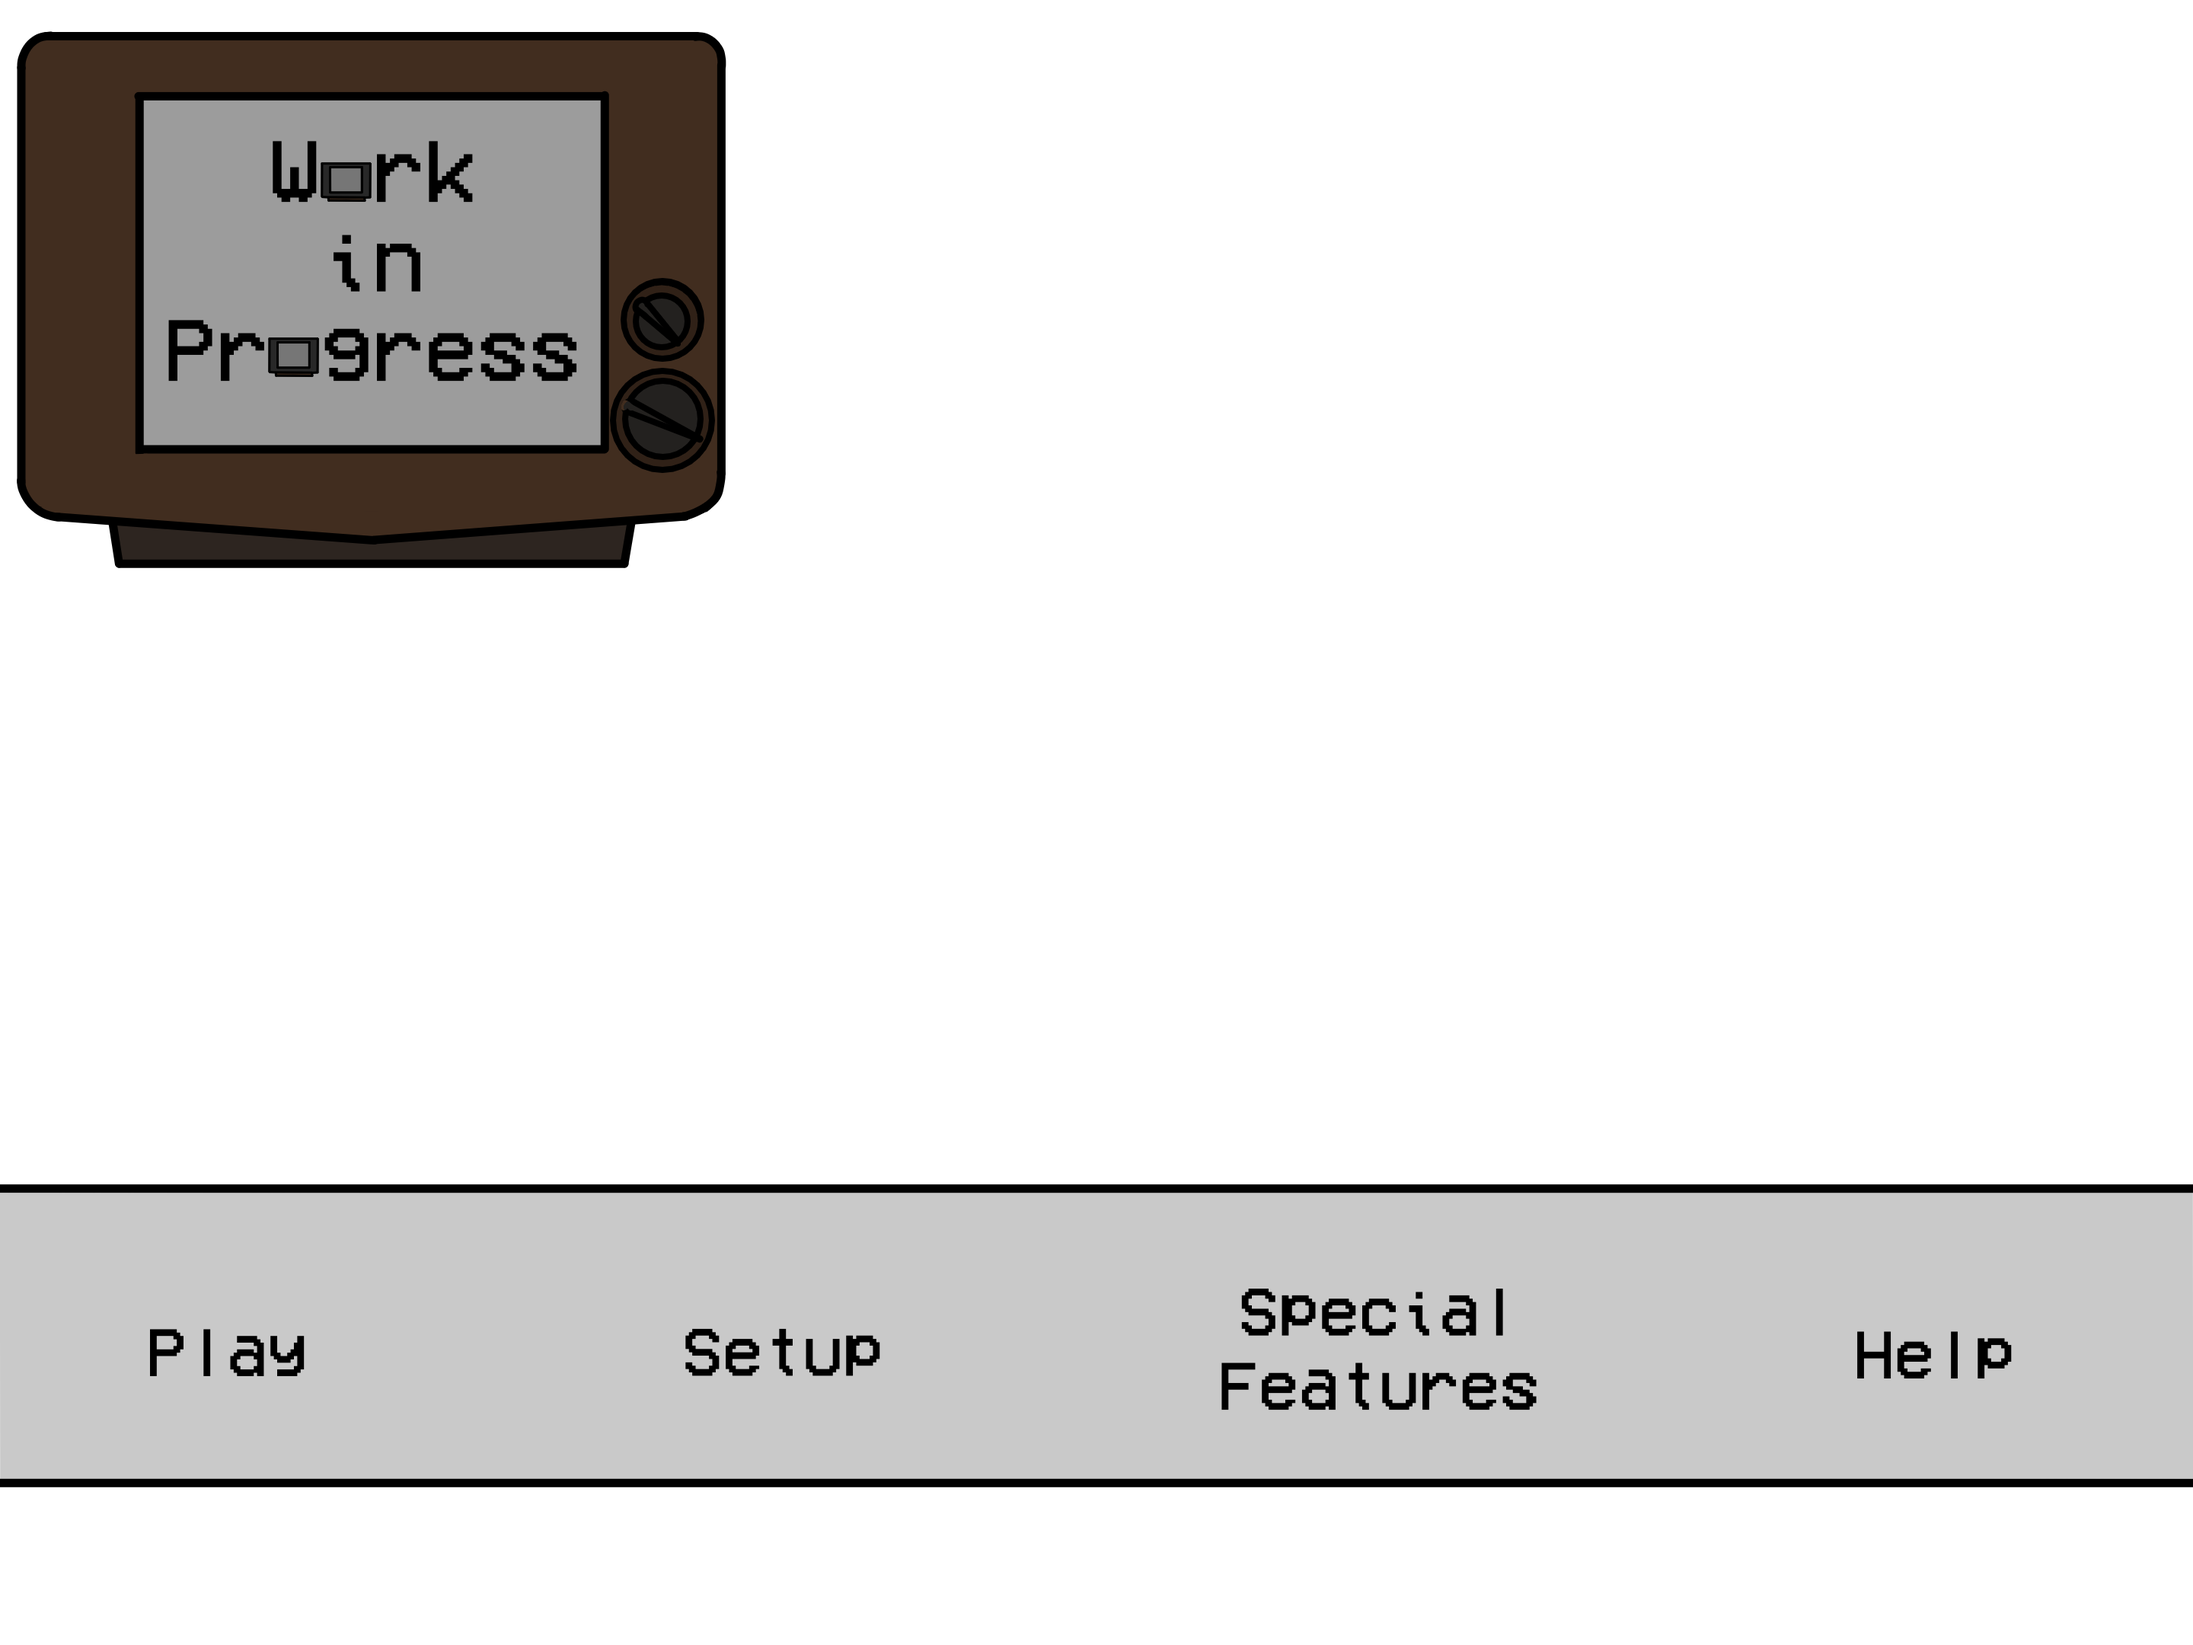
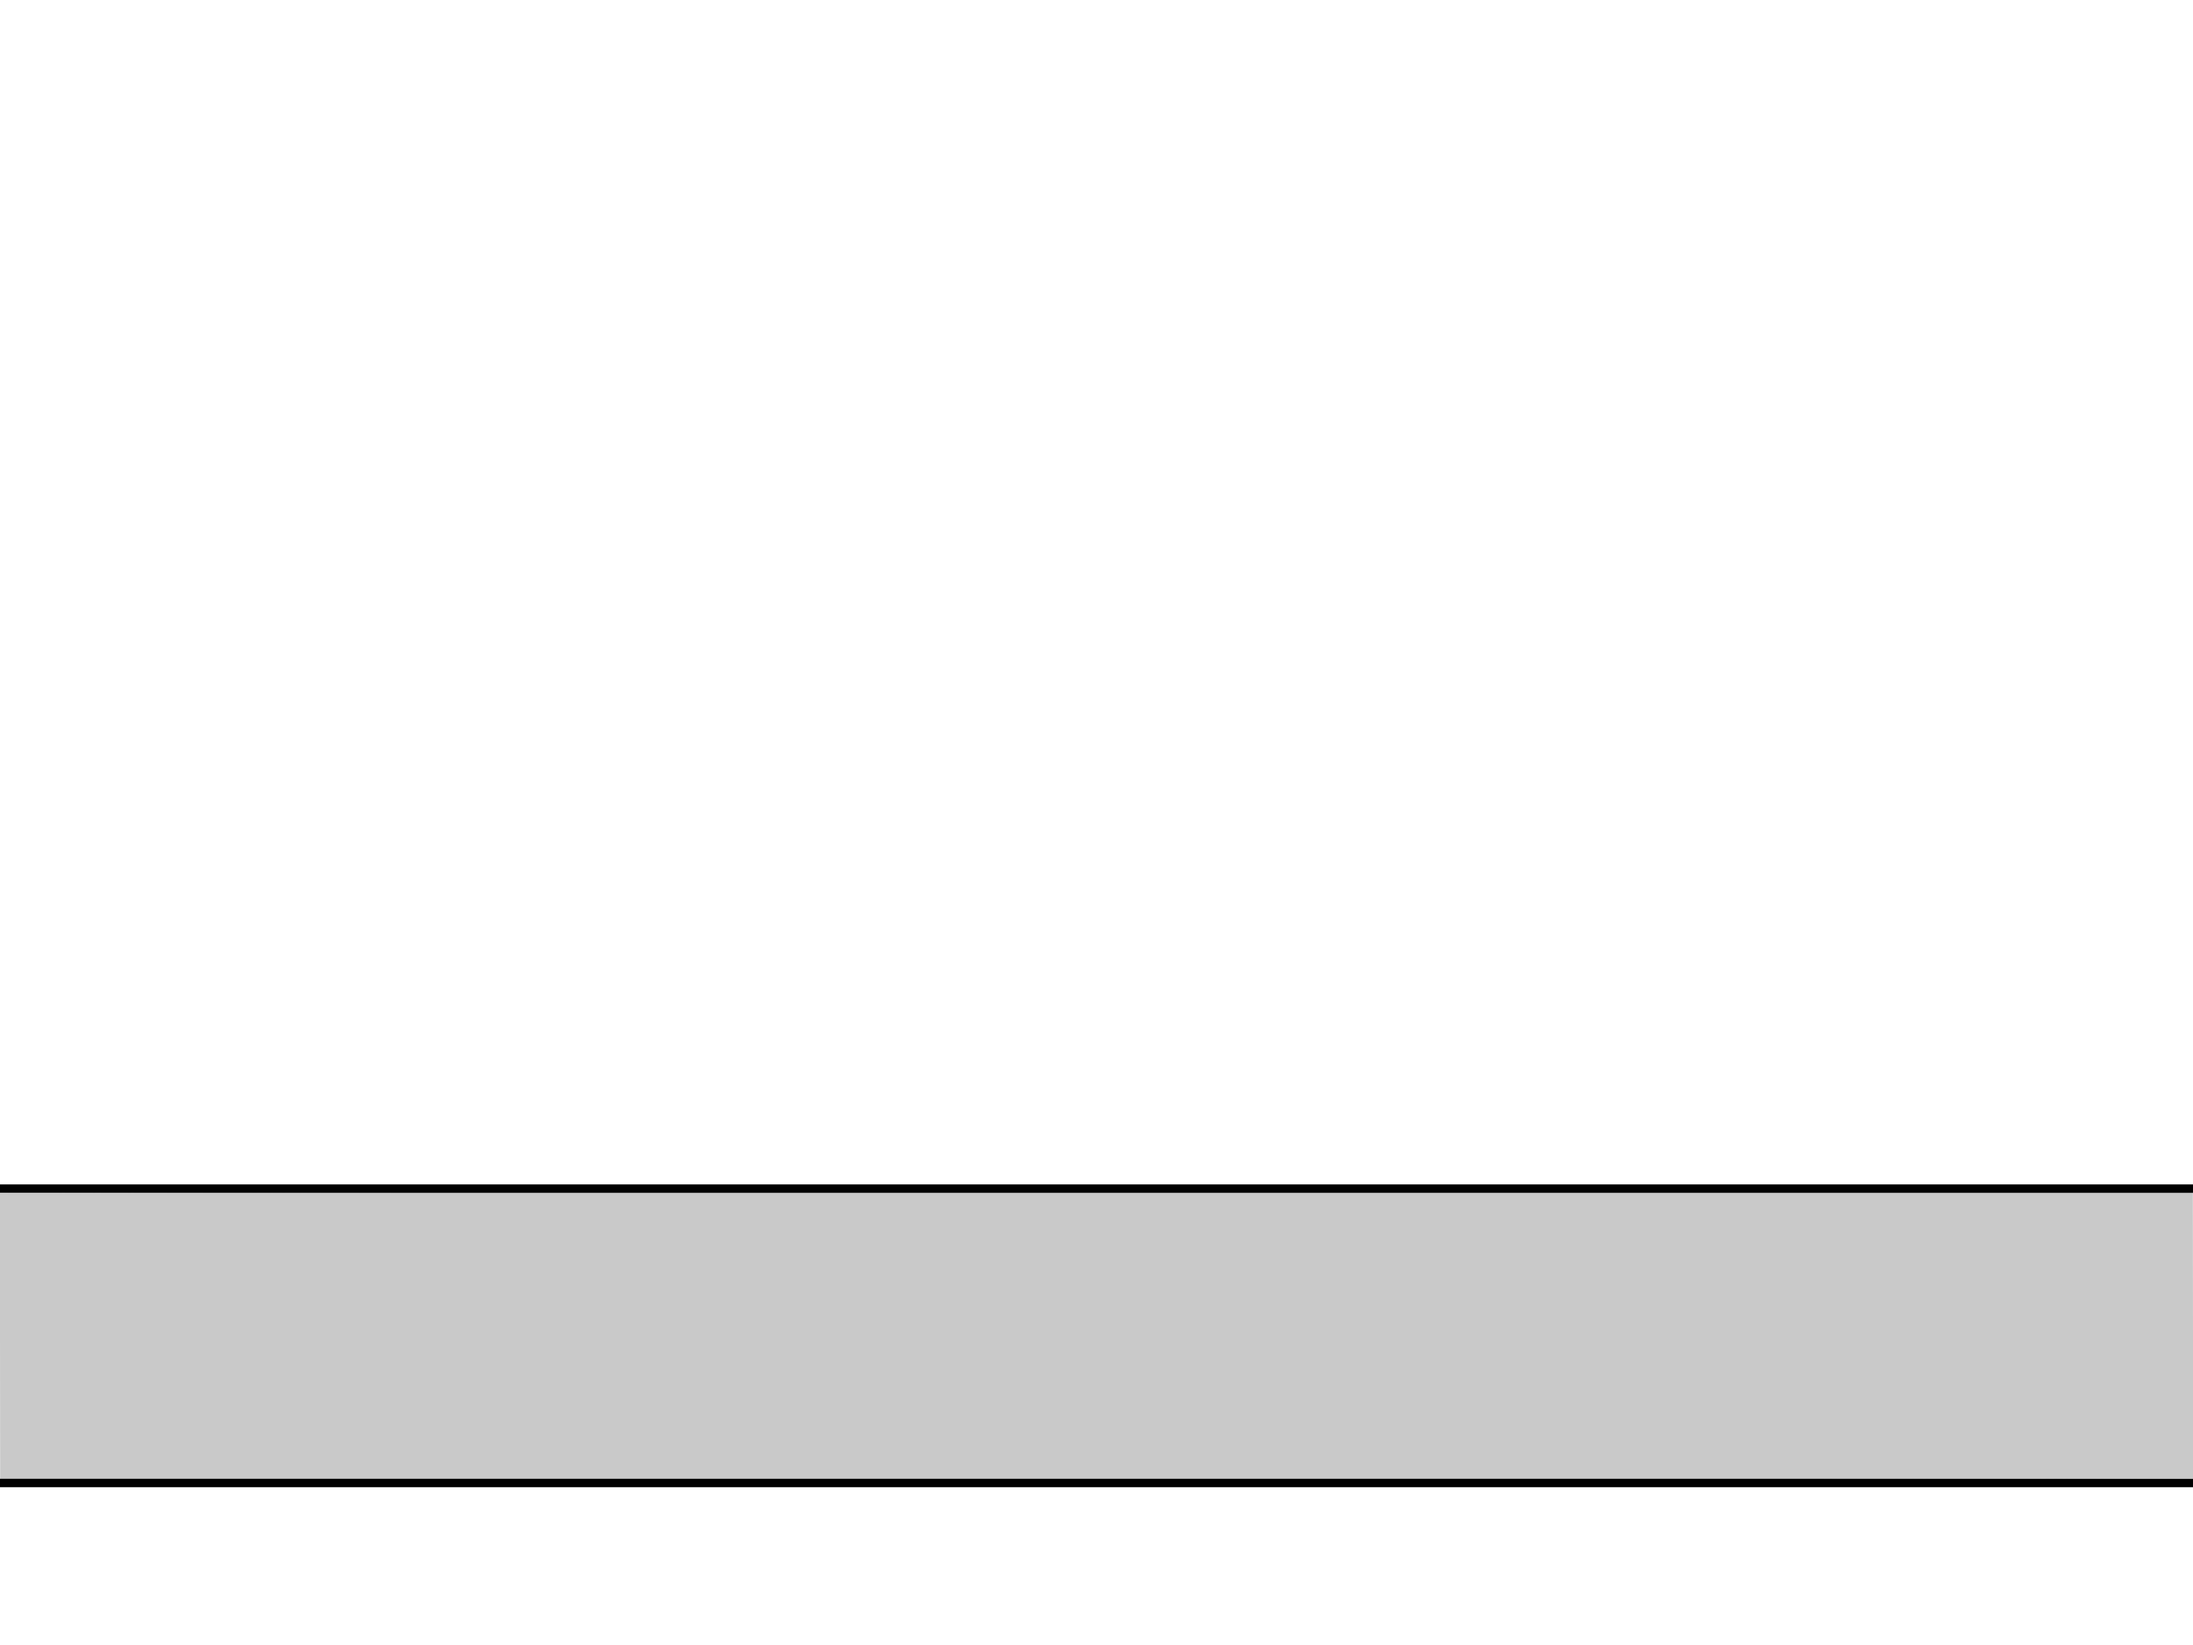
main menu is real!

diff --git a/src/main/java/org/example/Screen.java b/src/main/java/org/example/Screen.java
@@ -1,6 +1,7 @@
 package org.example;
 
 import javax.swing.*;
+import javax.swing.plaf.basic.BasicButtonUI;
 import java.awt.*;
 import java.awt.event.MouseAdapter;
 import java.awt.event.MouseEvent;
@@ -8,12 +9,16 @@ import java.awt.image.BufferedImage;
 import java.io.File;
 import java.io.IOException;
 import java.util.ArrayList;
+import java.util.Arrays;
+import java.util.List;
 
 public class Screen {
     static final Font VCR_FONT;
-    static final int MAX_CHAR_PER_LINE = 50;
+    static final int MAX_CHAR_PER_LINE = 70;
     private static final JLabel BORDER_BACKGROUND = new JLabel();
     private static final JLabel BACKGROUND = new JLabel();
+    private static final JLabel TITLE_BANNER = new JLabel();
+    private static final JButton[] MENU_BUTTONS = {new JButton("Play"),new JButton("Setup"),new JButton("Special Features"),new JButton("Help")};
     private static final JLabel[] TEXTS = new JLabel[]{new JLabel(),new JLabel(), new JLabel(),new JLabel()};
     private static final JFrame SYSTEM = new JFrame("");
     private static final ArrayList<JButton> CHOICES = new ArrayList<>();
@@ -27,6 +32,7 @@ public class Screen {
     static final int USABLE_WIDTH = (PRIMARY_MONITOR_DM.getHeight() * 4) / 3;
     private static boolean mouseReleased = false;
     private static volatile boolean textIsTyping = true; // Shared flag to control the thread
+    private static volatile int menuIndex = -1;
 
     static {
         try {
@@ -51,14 +57,54 @@ public class Screen {
             jLabel.setOpaque(true); // Make JLabel background visible
             jLabel.setBackground(Color.BLACK); // Background color
             jLabel.setForeground(Color.WHITE); // Text color
+            jLabel.setVisible(false);
             SYSTEM.add(jLabel);
         }
 
+        for (int i = 0; i < MENU_BUTTONS.length; i++) {
+            JButton button = MENU_BUTTONS[i];
+            button.setFont(VCR_FONT);
+            button.setBounds(((USABLE_WIDTH/4)*(i+1))-button.getPreferredSize().width/2,(5*SCREEN_HEIGHT)/6,button.getPreferredSize().width,button.getPreferredSize().height);
+            button.setVisible(false);
+            button.setBorderPainted(false);
+            button.setFocusPainted(false);
+            button.setBackground(Color.LIGHT_GRAY);
+            button.addMouseListener(new MouseAdapter() {
+                @Override
+                public void mouseEntered(MouseEvent e) {
+                    button.setBackground(Color.BLACK);
+                    button.setForeground(Color.WHITE);
+                }
+                @Override
+                public void mouseExited(MouseEvent e) {
+                    button.setBackground(Color.LIGHT_GRAY);
+                    button.setBorderPainted(false);
+                    button.setFocusPainted(false);
+                    button.setForeground(Color.BLACK);
+                    SYSTEM.getContentPane().setComponentZOrder(button, 0);
+
+                }
+                @Override
+                public void mouseReleased(MouseEvent e) {
+                    List buttons = Arrays.asList(MENU_BUTTONS);
+                    menuIndex = buttons.indexOf(button);
+                }
+            });
+            SYSTEM.add(button);
+            SYSTEM.getContentPane().setComponentZOrder(button, 0);
+
+        }
 
         BACKGROUND.setBounds((SCREEN_WIDTH - USABLE_WIDTH) / 2, 0, USABLE_WIDTH, SCREEN_HEIGHT);
-        setBackground(false, "scars");
-        BACKGROUND.setVisible(true);
+        BACKGROUND.setVisible(false);
         SYSTEM.add(BACKGROUND);
+
+        TITLE_BANNER.setIcon(scaleImage(USABLE_WIDTH,SCREEN_HEIGHT,new ImageIcon("src/main/java/org/example/Ui/title screen.png")));
+        TITLE_BANNER.setBounds((SCREEN_WIDTH-USABLE_WIDTH)/2,100,USABLE_WIDTH,SCREEN_HEIGHT);
+        TITLE_BANNER.setVisible(false);
+        SYSTEM.add(TITLE_BANNER);
+        SYSTEM.getContentPane().setComponentZOrder(TITLE_BANNER, 1);
+
 
 
         SYSTEM.addMouseListener(new MouseAdapter() {
@@ -76,13 +122,46 @@ public class Screen {
         PRIMARY_MONITOR.setFullScreenWindow(SYSTEM);
         SYSTEM.setVisible(true); // Make the frame visible AFTER everything is configured
     }
+    public static void titleScreen() {
+        boolean atTitleScreen = true;
+        TITLE_BANNER.setVisible(true);
+        for(JButton button : MENU_BUTTONS) {
+            button.setVisible(true);
+            SYSTEM.getContentPane().setComponentZOrder(button, 0);
+
+        }
+        Thread thread = new Thread(() -> {
+            File[] backgrounds = new File("src/main/java/org/example/Background/Photos").listFiles();
+            while (menuIndex==-1) {
+                String name = backgrounds[Main.random(backgrounds)].getName();
+                name = name.substring(0,name.length()-4);
+                setBackground(true, name);
+                Main.wait(Main.random(3000,10000));
+            }
+        });
+        thread.start();
+        while (menuIndex==-1) {
+            Main.wait(1);
+        }
+        System.out.println(menuIndex);
+        for(JButton button : MENU_BUTTONS) {
+            button.setVisible(false);
+        }
+        TITLE_BANNER.setVisible(false);
+
+
+
+    }
 
     public static void setBackground(Boolean isPhoto, String name) {
+        BACKGROUND.setVisible(true);
         if (isPhoto) {
             BACKGROUND.setIcon(scaleImage(SCREEN_WIDTH, SCREEN_HEIGHT, new ImageIcon("src/main/java/org/example/Background/Photos/" + name + ".png")));
         } else {
             BACKGROUND.setIcon(scaleImage(SCREEN_WIDTH, SCREEN_HEIGHT, new ImageIcon("src/main/java/org/example/Background/Handrawn/" + name + ".png")));
         }
+        SYSTEM.getContentPane().setComponentZOrder(BACKGROUND, SYSTEM.getContentPane().getComponentCount() - 2);
+
     }
 
     public static void addElement(Component component) {
@@ -148,13 +227,14 @@ public class Screen {
                 string[lines] += word+" ";
             } else {
                 lines++;
-                string[lines] += word;
+                string[lines] += word+" ";
 
             }
         }
+
         for(int i=0; i<string.length; i++) {
-            TEXTS[i].setText(string[i]);
-            TEXTS[i].setVisible(true);
+            TEXTS[string.length-i-1].setText(string[i]);
+            TEXTS[i].setVisible(false);
             TEXTS[i].setBounds(
                     (SCREEN_WIDTH-TEXTS[i].getPreferredSize().width) / 2,
                     (int) ((SCREEN_HEIGHT - (VCR_FONT.getSize() * 1.1)*i) / 1.1),
@@ -162,6 +242,9 @@ public class Screen {
                     (int) (VCR_FONT.getSize() * 1.1));
             if(TEXTS[i].getText().isEmpty()) {
                 TEXTS[i].setVisible(false);
+            } else {
+                TEXTS[i].setVisible(true);
+
             }
         }
 

diff --git a/src/main/java/org/example/ImageTest.java b/src/main/java/org/example/ImageTest.java
@@ -2,17 +2,39 @@ package org.example;
 
 import javax.swing.*;
 import java.awt.*;
-import java.awt.event.ActionEvent;
-import java.awt.event.ActionListener;
-import java.util.ArrayList;
+import java.awt.event.MouseAdapter;
+import java.awt.event.MouseEvent;
 
-public class ImageTest {
+public class ImageTest extends JFrame {
+    public ImageTest() {
+        setTitle("Hover Button Demo");
+        setDefaultCloseOperation(JFrame.EXIT_ON_CLOSE);
+        setSize(300, 200);
+        setLayout(new FlowLayout());
+
+        JButton button = new JButton("Hover Me");
+        button.setOpaque(true);
+        button.setBorderPainted(false);
+
+        button.addMouseListener(new MouseAdapter() {
+            @Override
+            public void mouseEntered(MouseEvent e) {
+                button.setBackground(Color.BLUE);
+                button.setForeground(Color.WHITE);
+            }
+
+            @Override
+            public void mouseExited(MouseEvent e) {
+                button.setBackground(null);
+                button.setForeground(Color.BLACK);
+            }
+        });
+
+        add(button);
+        setVisible(true);
+    }
 
     public static void main(String[] args) {
-        for (String fontName : GraphicsEnvironment.getLocalGraphicsEnvironment().getAvailableFontFamilyNames()) {
-            if (fontName.toLowerCase().contains("vcr")) { // Search for VCR fonts
-                System.out.println(fontName);
-            }
-        }
+        SwingUtilities.invokeLater(ImageTest::new);
     }
 }

diff --git a/src/main/java/org/example/Main.java b/src/main/java/org/example/Main.java
@@ -11,11 +11,7 @@ public class Main {
     public static void main(String[] args) {
 
         Screen.init();
-        Character carina = Character.ALL_CHARACTERS[0];
-        carina.changeExpression("default");
-        carina.setVisible(false);
-        carina.setBounds(DefaultPosition.values()[0]);
-        Events.ALL_EVENTS[0].checkRun(carina);
+        Screen.titleScreen();
 
     }
     public static int random(int low, int high) {
